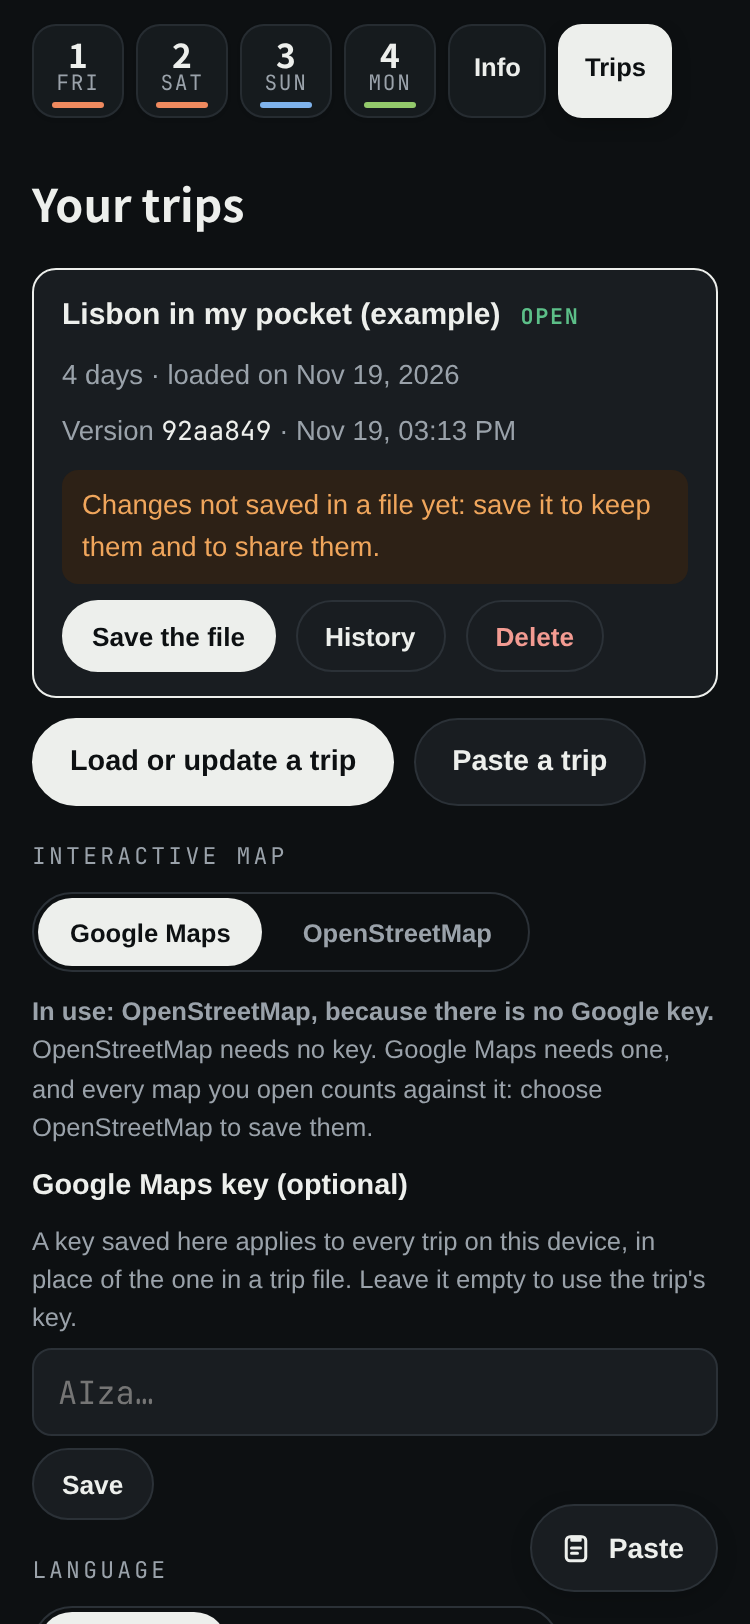
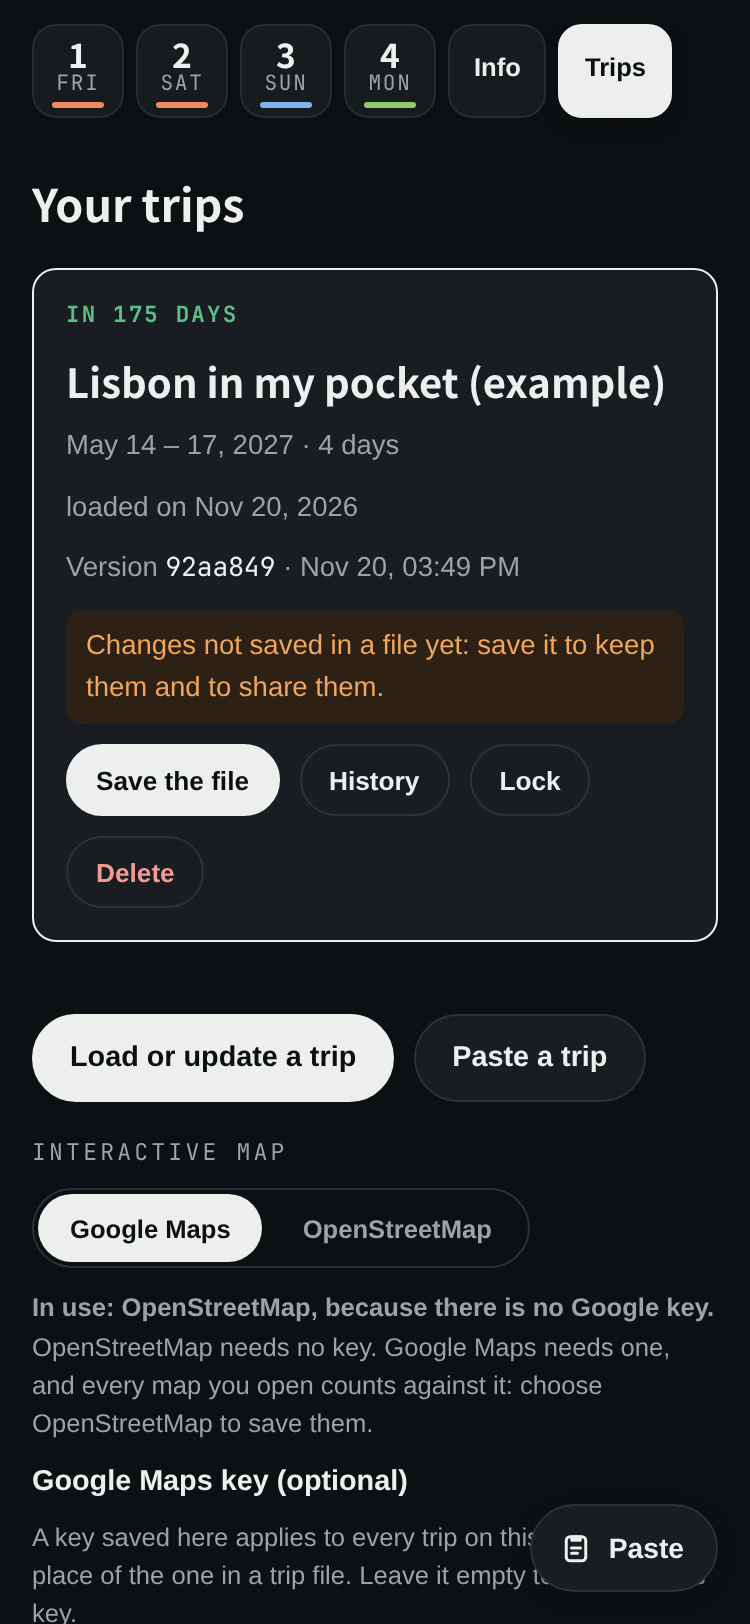
3.19.0: the Trips page, for people who travel a lot
- The open trip on top, in full: when it is (day d of n, in n days, over),
  dates, its details and actions.
- My trips: a line each (title, dates, days, signs: locked, shared, not
  synced), opening to the same details; grouped under way / coming / past
  by year, or by name, or by recently loaded (kept in ui.tripSort); found
  by title or city when there are six or more.
- tripWhen, dateRange, tripDetails, tripSigns: one card body for the open
  trip and a line opened.
- e2e: the open trip and its phase, the groups and their order, by name,
  found by a city, a line opened to Open; README pictures retaken.

Changed region(s): [[0.0307, 0.1847, 0.9507, 1.0], [0.3987, 0.5542, 0.644, 0.585]]

diff --git a/js/app.js b/js/app.js
@@ -40,7 +40,8 @@ const S = {
                           // priv: the traveller's private expenses (js/private.js), outside the versions
   rec: null,              // the open one
   state: {done: {}, skipped: {}, plans: {}},
-  ui: {mapOpen: false, mapView: "live", expandAll: false, route: true, costsOpen: false, costView: "sum", costCur: ""},
+  ui: {mapOpen: false, mapView: "live", expandAll: false, route: true, costsOpen: false, costView: "sum", costCur: "", tripSort: "date"},
+  tripSearch: "",         // what the traveller looks for among their trips (Trips page)
   langPref: "auto",       // "auto" follows the trip, or a language chosen on this device
   theme: document.documentElement.dataset.theme || "auto",   // set early by js/theme.js
   openStops: new Map(),   // descriptions opened or closed one by one, until the page is closed
@@ -1043,21 +1044,87 @@ async function answerChatApp(id){
   try{ location.replace(await answerChat(id, yes, scopes)); }catch(e){ failed(e); }
 }
 
-function renderTrips(){
-  const lang = getLang();
-  const cards = S.records.slice().reverse().map(r => {
-    const cur = S.rec && S.rec.id === r.id;
-    const when = new Intl.DateTimeFormat(lang, {day: "numeric", month: "short", year: "numeric"}).format(new Date(r.importedAt));
-    return `<div class="tripcard${cur ? " current" : ""}">
-      <div class="t"><span>${esc(r.trip.title)}</span>${isLocked(r) ? `<span class="badge-lock" data-locked>${esc(t("locked"))}</span>` : ""}${cur ? `<span class="badge-on">${esc(t("current"))}</span>` : ""}</div>
-      <div class="s">${esc(t("daysCount", {n: r.trip.days.length}))} · ${esc(t("loadedOn", {d: when}))}</div>
+// Where a trip is in time, seen from today where it happens: under way (which day),
+// coming (in how many days), or over.
+function tripWhen(tr){
+  const first = tr.days[0] && tr.days[0].date, last = tr.days.length && tr.days[tr.days.length - 1].date;
+  const today = todayIn(tr.timezone);
+  if(!first || today > last) return {phase: "past", first, last};
+  if(today < first) return {phase: "next", first, last, inDays: Math.round((Date.parse(first) - Date.parse(today)) / 864e5)};
+  return {phase: "now", first, last, day: tr.days.findIndex(d => d.date === today) + 1};
+}
+
+// A trip's dates as a short range: "14–17 May 2027".
+function dateRange(tr, lang){
+  const w = tripWhen(tr);
+  if(!w.first) return "";
+  const f = new Intl.DateTimeFormat(lang, {day: "numeric", month: "short", year: "numeric", timeZone: "UTC"});
+  const a = new Date(w.first + "T00:00:00Z"), b = new Date(w.last + "T00:00:00Z");
+  try{ return f.formatRange(a, b); }catch(e){ return f.format(a) + " – " + f.format(b); }
+}
+
+// What a trip's card says and lets do: the same for the active trip and a row opened.
+function tripDetails(r, cur, lang){
+  const when = new Intl.DateTimeFormat(lang, {day: "numeric", month: "short", year: "numeric"}).format(new Date(r.importedAt));
+  return `
+      <div class="s">${esc(t("loadedOn", {d: when}))}</div>
       <div class="s ver">${esc(t("versionLabel"))} <code data-version="${esc(r.trip.version.id)}">${esc(shortId(r.trip.version.id))}</code>${r.trip.version.date ? " · " + esc(new Intl.DateTimeFormat(lang, {day: "numeric", month: "short", hour: "2-digit", minute: "2-digit"}).format(new Date(r.trip.version.date))) : ""}</div>
       ${r.share ? `<div class="s where">${esc(t(r.share.gone ? "goneFromAccount" : r.share.role === "owner" ? "onAccount" : r.share.role === "edit" ? "sharedEdit" : "sharedRead"))}</div>` : ""}
       ${S.syncErrors.has(r.id) ? `<div class="unsaved" role="status" data-sync-error>${esc(t("notSynced", {why: S.syncErrors.get(r.id)}))}</div>` : ""}
       ${needsSaving(r) ? `<div class="unsaved" role="status">${esc(t("unsaved"))}</div>` : ""}
-      <div class="actions">${cur ? "" : `<button type="button" class="btn small" data-act="open" data-id="${esc(r.id)}">${esc(t("open"))}</button>`}<button type="button" class="btn small${needsSaving(r) ? " primary" : ""}" data-act="save" data-id="${esc(r.id)}">${esc(t("saveFile"))}</button><button type="button" class="btn small" data-act="history" data-id="${esc(r.id)}">${esc(t("history"))}</button>${!r.share || r.share.gone || r.share.role === "owner" ? `<button type="button" class="btn small" data-act="lock" data-id="${esc(r.id)}">${esc(t(isLocked(r) ? "unlock" : "lock"))}</button>` : ""}${r.share && r.share.gone && S.account ? `<button type="button" class="btn small" data-act="reup" data-id="${esc(r.id)}">${esc(t("putOnAccount"))}</button>` : ""}<button type="button" class="btn small danger" data-act="remove" data-id="${esc(r.id)}">${esc(t("remove"))}</button></div>
+      <div class="actions">${cur ? "" : `<button type="button" class="btn small primary" data-act="open" data-id="${esc(r.id)}">${esc(t("open"))}</button>`}<button type="button" class="btn small${needsSaving(r) ? " primary" : ""}" data-act="save" data-id="${esc(r.id)}">${esc(t("saveFile"))}</button><button type="button" class="btn small" data-act="history" data-id="${esc(r.id)}">${esc(t("history"))}</button>${!r.share || r.share.gone || r.share.role === "owner" ? `<button type="button" class="btn small" data-act="lock" data-id="${esc(r.id)}">${esc(t(isLocked(r) ? "unlock" : "lock"))}</button>` : ""}${r.share && r.share.gone && S.account ? `<button type="button" class="btn small" data-act="reup" data-id="${esc(r.id)}">${esc(t("putOnAccount"))}</button>` : ""}<button type="button" class="btn small danger" data-act="remove" data-id="${esc(r.id)}">${esc(t("remove"))}</button></div>`;
+}
+
+// Small signs on a trip's line: locked, shared, not synced.
+const tripSigns = r => (isLocked(r) ? `<span class="badge-lock" data-locked>${esc(t("locked"))}</span>` : "")
+  + (r.share && !r.share.gone && r.share.role !== "owner" ? `<span class="badge-lock">${esc(t("sharedBadge"))}</span>` : "")
+  + (S.syncErrors.has(r.id) ? `<span class="badge-warn">${esc(t("notSyncedBadge"))}</span>` : "");
+
+// The Trips page: the active trip on top, in full; the others below, a line each,
+// grouped (under way, coming, past by year) or in one list by name or by recent use,
+// found by title or city when there are many. A line opens to the trip's details.
+function renderTrips(){
+  const lang = getLang();
+  const active = S.rec ? S.records.find(r => r.id === S.rec.id) || null : null;
+  const w = active && tripWhen(active.trip);
+  const phase = !w ? "" : w.phase === "now" ? t("phaseNow", {d: w.day, n: active.trip.days.length}) : w.phase === "next" ? (w.inDays === 1 ? t("phaseTomorrow") : t("phaseNext", {n: w.inDays})) : t("phasePast");
+  const activeCard = !active ? "" : `<section class="active-trip" aria-label="${esc(t("activeTrip"))}">
+    <div class="tripcard current">
+      <div class="eyebrow">${esc(phase)}</div>
+      <div class="t"><span>${esc(active.trip.title)}</span>${tripSigns(active)}</div>
+      <div class="s">${esc(dateRange(active.trip, lang))} · ${esc(t("daysCount", {n: active.trip.days.length}))}</div>
+      ${tripDetails(active, true, lang)}
+    </div></section>`;
+  const others = S.records.filter(r => r !== active);
+  const q = (S.tripSearch || "").trim().toLowerCase();
+  const found = !q ? others : others.filter(r => [r.trip.title, ...r.trip.days.map(d => d.city || "")].some(x => String(x).toLowerCase().includes(q)));
+  const row = r => `<details class="tripcard trip-row" data-keep="trip:${esc(r.id)}"${S.openDetails.has("trip:" + r.id) ? " open" : ""}>
+      <summary><span class="t"><span>${esc(r.trip.title)}</span>${tripSigns(r)}</span><span class="s">${esc(dateRange(r.trip, lang))} · ${esc(t("daysCount", {n: r.trip.days.length}))}</span></summary>
+      ${tripDetails(r, false, lang)}
+    </details>`;
+  const sort = S.ui.tripSort || "date";
+  let list;
+  if(sort === "name") list = found.slice().sort((a, b) => a.trip.title.localeCompare(b.trip.title, lang)).map(row).join("");
+  else if(sort === "recent") list = found.slice().sort((a, b) => b.importedAt - a.importedAt).map(row).join("");
+  else{
+    const by = {now: [], next: [], past: new Map()};
+    for(const r of found){
+      const x = tripWhen(r.trip);
+      if(x.phase === "past"){ const y = (x.last || "").slice(0, 4); by.past.set(y, [...(by.past.get(y) || []), r]); }
+      else by[x.phase].push(r);
+    }
+    const start = r => r.trip.days[0] ? r.trip.days[0].date : "", end = r => r.trip.days.length ? r.trip.days[r.trip.days.length - 1].date : "";
+    const group = (title, rs) => rs.length ? `<h3 class="trip-group">${esc(title)}</h3>${rs.map(row).join("")}` : "";
+    list = group(t("groupNow"), by.now.sort((a, b) => start(a).localeCompare(start(b))))
+      + group(t("groupNext"), by.next.sort((a, b) => start(a).localeCompare(start(b))))
+      + [...by.past.keys()].sort().reverse().map(y => group(t("groupPast", {y}), by.past.get(y).sort((a, b) => end(b).localeCompare(end(a))))).join("");
+  }
+  const tools = others.length < 2 ? "" : `<div class="trip-tools">
+      ${others.length >= 6 ? `<input type="search" data-trips-search placeholder="${esc(t("searchTrips"))}" aria-label="${esc(t("searchTrips"))}" value="${esc(S.tripSearch || "")}">` : ""}
+      <select data-trips-sort aria-label="${esc(t("sortBy"))}">${["date", "name", "recent"].map(k => `<option value="${k}"${k === sort ? " selected" : ""}>${esc(t("sort_" + k))}</option>`).join("")}</select>
     </div>`;
-  }).join("");
+  const cards = activeCard + (others.length ? `<section class="sec my-trips"><div class="list-head"><h2>${esc(t("myTrips", {n: others.length}))}</h2></div>${tools}
+    ${list || `<p class="foot">${esc(t("noTripsFound"))}</p>`}</section>` : "");
   const key = googleKey();
   const status = !S.useGoogle ? "statusOsmChosen"
     : !key ? "statusNoKey"
@@ -1065,9 +1132,10 @@ function renderTrips(){
     : S.deviceKey ? "statusGoogleDevice" : "statusGoogleTrip";
   return `
   <h1>${esc(t("yourTrips"))}</h1>
-  ${accountSection()}
   ${errorBox()}
-  <section class="sec">${cards}
+  ${cards}
+  ${accountSection()}
+  <section class="sec">
     <div class="actions">
       <button type="button" class="btn primary" data-act="pick">${esc(t("updateTrip"))}</button>
       <button type="button" class="btn" data-act="paste">${esc(t("pasteTrip"))}</button>
@@ -1743,6 +1811,7 @@ function refocus(selector){
 }
 
 $app.addEventListener("input", e => {
+  if(e.target.matches && e.target.matches("[data-trips-search]")){ S.tripSearch = e.target.value; renderKeepingFocus(); return; }
   const box = e.target.closest && e.target.closest("[data-draft]");
   if(!box) return;
   setDraft(box.dataset.draft, box.value);
@@ -2028,6 +2097,7 @@ $app.addEventListener("toggle", e => {
 }, true);
 
 $app.addEventListener("change", e => {
+  if(e.target.matches && e.target.matches("[data-trips-sort]")){ S.ui.tripSort = e.target.value; saveUi(); render(); refocus("[data-trips-sort]"); return; }
   if(e.target.id !== "home-cur") return;
   S.home = e.target.value;
   store.setKV("home", S.home).catch(() => {});
@@ -2175,7 +2245,7 @@ async function start(){
     await versions.put(ready);
   }
   if(ui && typeof ui === "object") S.ui = {mapOpen: !!ui.mapOpen, mapView: ui.mapView === "schema" ? "schema" : "live", expandAll: !!ui.expandAll, route: ui.route !== false,
-    costsOpen: !!ui.costsOpen, costView: ui.costView === "receipt" ? "receipt" : "sum", costCur: typeof ui.costCur === "string" ? ui.costCur : ""};
+    costsOpen: !!ui.costsOpen, costView: ui.costView === "receipt" ? "receipt" : "sum", costCur: typeof ui.costCur === "string" ? ui.costCur : "", tripSort: ["date", "name", "recent"].includes(ui.tripSort) ? ui.tripSort : "date"};
   if(typeof key === "string") S.deviceKey = key;
   syncThemeColor();
   await openRecord(S.records.find(r => r.id === activeId) || S.records[S.records.length - 1] || null);

diff --git a/js/i18n.js b/js/i18n.js
@@ -128,6 +128,10 @@ export const STRINGS = {
     lockedNoEdit: "This trip is locked: unlock it in Trips to change it.", lockedNoDelete: "This trip is locked: unlock it in Trips to delete it.",
     lockedNoChanges: "“{t}” is locked: these changes were not taken. Unlock it in Trips first.", lockedNoFile: "“{t}” is locked: this file was not taken. Unlock it in Trips first.",
     lockedNote: "Locked: it stays at this version. Ticks and private expenses still work.", lockedWaiting: "locked by its owner; the changes made here wait until it is unlocked",
+    activeTrip: "The open trip", myTrips: "My trips ({n})", sortBy: "Sort", sort_date: "By date", sort_name: "By name", sort_recent: "Recently loaded",
+    searchTrips: "Find a trip or a city", noTripsFound: "No trip matches.", groupNow: "Under way", groupNext: "Coming", groupPast: "Past · {y}",
+    phaseNow: "Under way · day {d} of {n}", phaseNext: "In {n} days", phaseTomorrow: "Tomorrow", phasePast: "Over",
+    sharedBadge: "Shared", notSyncedBadge: "Not synced",
     accountBtn: "Account", accountSince: "Account since {d}.", exportData: "Export my data", exportDone: "Your data is in the file: trips, private expenses, linked chats, what the service noted.",
     deleteAccount: "Delete account", deleteAccountTitle: "Delete your account?", deleteAccountLabel: "Your handle",
     deleteAccountText: "Your trips and private expenses go from the service for good, also for the people you share them with, and your linked chats stop. The trips on this phone stay, on this phone only. Write your handle to confirm: your passkey is asked next.",
@@ -375,6 +379,10 @@ export const STRINGS = {
     lockedNoEdit: "Il viaggio è bloccato: sbloccalo in Viaggi per cambiarlo.", lockedNoDelete: "Il viaggio è bloccato: sbloccalo in Viaggi per eliminarlo.",
     lockedNoChanges: "«{t}» è bloccato: queste modifiche non sono state prese. Prima sbloccalo in Viaggi.", lockedNoFile: "«{t}» è bloccato: questo file non è stato preso. Prima sbloccalo in Viaggi.",
     lockedNote: "Bloccato: resta a questa versione. Spunte e spese private restano libere.", lockedWaiting: "bloccato dal proprietario; le modifiche fatte qui aspettano che venga sbloccato",
+    activeTrip: "Il viaggio aperto", myTrips: "I miei viaggi ({n})", sortBy: "Ordina", sort_date: "Per data", sort_name: "Per nome", sort_recent: "Caricati di recente",
+    searchTrips: "Cerca un viaggio o una città", noTripsFound: "Nessun viaggio corrisponde.", groupNow: "In corso", groupNext: "Prossimi", groupPast: "Passati · {y}",
+    phaseNow: "In corso · giorno {d} di {n}", phaseNext: "Tra {n} giorni", phaseTomorrow: "Domani", phasePast: "Concluso",
+    sharedBadge: "Condiviso", notSyncedBadge: "Non sincronizzato",
     accountBtn: "Account", accountSince: "Account dal {d}.", exportData: "Esporta i miei dati", exportDone: "I tuoi dati sono nel file: viaggi, spese private, chat collegate, cosa ha annotato il servizio.",
     deleteAccount: "Elimina account", deleteAccountTitle: "Eliminare il tuo account?", deleteAccountLabel: "Il tuo nome utente",
     deleteAccountText: "I tuoi viaggi e le spese private spariscono dal servizio per sempre, anche per chi li condivide con te, e le chat collegate si fermano. I viaggi su questo telefono restano, solo qui. Scrivi il tuo nome utente per confermare: dopo ti viene chiesta la passkey.",

diff --git a/css/app.css b/css/app.css
@@ -348,6 +348,26 @@ span.costbtn{cursor:auto}
 .steps b{color:var(--ink);font-weight:600}
 .tripcard{background:var(--surface);border:1px solid var(--line);border-radius:12px;padding:12px 14px;display:grid;gap:8px}
 .tripcard.current{border-color:var(--ink)}
+.active-trip{margin:0 0 18px}
+.active-trip .tripcard{padding:16px;gap:10px}
+.active-trip .t{font:700 1.25rem/1.2 var(--f-display)}
+.tripcard .eyebrow{font:600 .7rem var(--f-mono);letter-spacing:.1em;text-transform:uppercase;color:var(--ok)}
+.my-trips{display:grid;gap:8px}
+.my-trips .list-head h2{margin:0}
+.trip-tools{display:flex;gap:8px;flex-wrap:wrap}
+.trip-tools input,.trip-tools select{font:500 .95rem var(--f-body);padding:8px 12px;border:1px solid var(--line);border-radius:10px;background:var(--surface);color:var(--ink);min-height:40px}
+.trip-tools input{flex:1 1 120px;min-width:0}
+.trip-tools select{flex:0 0 auto}
+.trip-group{font:600 .7rem var(--f-mono);letter-spacing:.1em;text-transform:uppercase;color:var(--muted);margin:10px 0 0}
+.trip-row{padding:0;gap:0}
+.trip-row>summary{list-style:none;cursor:pointer;display:grid;gap:2px;padding:12px 14px;border-radius:12px}
+.trip-row>summary::-webkit-details-marker{display:none}
+.trip-row>summary .t{font-weight:600}
+.trip-row[open]>summary{border-bottom:1px solid var(--line);border-radius:12px 12px 0 0}
+.trip-row>:not(summary){margin:0 14px}
+.trip-row>.actions{margin:8px 14px 14px}
+.trip-row>.s:first-of-type{margin-top:10px}
+.badge-warn{font:600 .68rem var(--f-mono);letter-spacing:.08em;text-transform:uppercase;color:var(--err);border:1px solid currentColor;border-radius:999px;padding:1px 8px}
 .tripcard .t{font-weight:600;display:flex;flex-wrap:wrap;gap:6px 10px;align-items:baseline}
 .tripcard .s{color:var(--muted);font-size:.86rem}
 .badge-on{font:600 .68rem var(--f-mono);letter-spacing:.08em;text-transform:uppercase;color:var(--ok)}

diff --git a/CHANGELOG.md b/CHANGELOG.md
@@ -4,6 +4,18 @@ Versions follow [Semantic Versioning](https://semver.org/). The trip file format
 its own version: `travel-in-my-pocket/2` since 3.0. Files in `travel-in-my-pocket/1`
 (1.0 to 2.4) still load: the app converts them.
 
+## 3.19.0
+
+The Trips page, for people who travel a lot.
+
+- **The open trip on top**, in full: under way (which day of how many), coming (in how
+  many days) or over, its dates, and what you can do with it.
+- **My trips below**, one line each: title, dates, days, and small signs (locked,
+  shared, not synced). A line opens to the trip's details and its Open button.
+- **Grouped by when**: under way, coming, then past by year, the latest first. Or one
+  list **by name** or **by recently loaded**; the choice is kept.
+- **Find a trip** by its title or a city, when there are many.
+
 ## 3.18.0
 
 Locked trips.

diff --git a/README.md b/README.md
@@ -20,7 +20,7 @@ the app can be public and open source while your hotels and dates stay private.
 
 <p align="center">
   <img src="docs/screenshots/new-stop.png" width="24%" alt="The form to add a stop, filled in from a Google Maps link: name, day, time, how you get there, position">
-  <img src="docs/screenshots/trips-dark.png" width="24%" alt="The Trips page in the dark theme: the trip's version and a reminder to save the changed trip as a file">
+  <img src="docs/screenshots/trips-dark.png" width="24%" alt="The Trips page in the dark theme: the open trip on top, when it is, its version and a reminder to save it as a file">
   <img src="docs/screenshots/costs.png" width="24%" alt="What the trip costs, at the end of the Info page: the total in dollars, done and still to do, day by day">
 </p>
 
